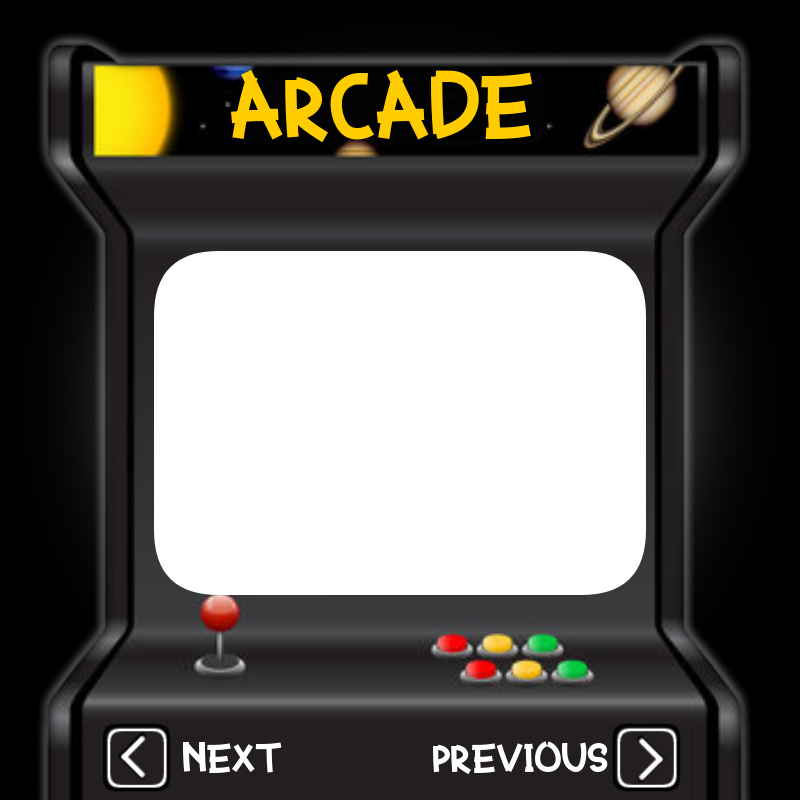
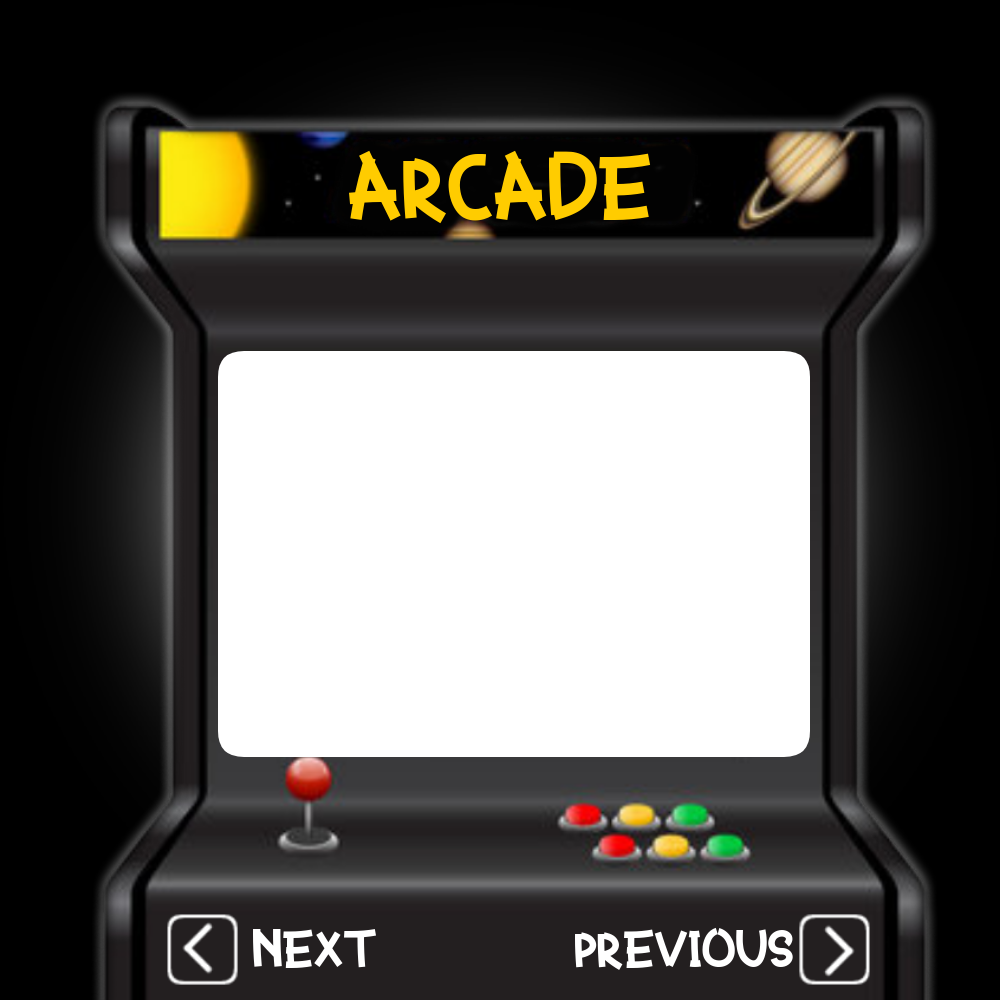
[*] added back getName and new arcade img

Changed region(s): [[0.0312, 0.0312, 0.9375, 1.0]]

diff --git a/lib/Game/Menu/src/Menu.cpp b/lib/Game/Menu/src/Menu.cpp
@@ -15,10 +15,10 @@ extern "C" Arcade::menu *Arcade::entry_point()
 Arcade::menu::menu() : Score(0), CurrentGame(0)
 {
     GetGameLibraries();
-    Images.push_back(std::make_shared<Tile>("contents/Arcade.png", 'X', BLUE, 0, 0));
+    Images.push_back(std::make_shared<Tile>("contents/Arcade.png", ' ', BLUE, 0, 0));
     GameTile = std::make_shared<Text>(Games[CurrentGame], WHITE, 0, 1);
-    //GamePic = std::make_shared<Tile>("")
-    texts.push_back(std::make_shared<Text>("Hello", WHITE, 5, 5));
+    GamePic = std::make_shared<Tile>("contents/arcade_pacman.png", ' ', BLUE,5,14);
+    texts.push_back(std::make_shared<Text>("Hello", WHITE, 0, 0));
 }
 
 std::vector<Arcade::Object> Arcade::menu::GameLoop(Input input)
@@ -31,6 +31,7 @@ std::vector<Arcade::Object> Arcade::menu::GameLoop(Input input)
     if (input == ARROW_LEFT || input == ARROW_RIGHT) {
         GameTile.get()->setText(Games[CurrentGame]);
     }
+    objects.push_back(GamePic);
     for (auto &Image : Images)
         objects.push_back(Image);
     for (auto &Text : texts)
@@ -43,6 +44,7 @@ void Arcade::menu::ResetGame()
 {
     Score = 0;
     CurrentGame = 0;
+    GameTile.get()->setText(Games[CurrentGame]);
 }
 
 void Arcade::menu::GetGameLibraries() {

diff --git a/src/ArcadeParse.cpp b/src/ArcadeParse.cpp
@@ -12,7 +12,7 @@ Arcade::ArcadeParse::ArcadeParse(int NbArguments, char **Arguments) : CurrentGam
     CheckArgument(NbArguments, Arguments);
     GetLibraries();
     CheckLibraries();
-    CurrentGraphic = (int)std::distance(Graphics.begin(), std::find(Graphics.begin(), Graphics.end(), Arguments[1])) % (int)Graphics.size();
+    CurrentGraphic = int (std::distance(Graphics.begin(), std::find(Graphics.begin(), Graphics.end(), Arguments[1]))) % int (Graphics.size());
 }
 
 

diff --git a/src/ArcadeBorne.cpp b/src/ArcadeBorne.cpp
@@ -12,6 +12,7 @@ using namespace std::chrono_literals;
 Arcade::ArcadeBorne::ArcadeBorne(int NbArguments, char **Arguments) : ArcadeParse(NbArguments, Arguments)
 {
     DisplayLibs();
+    GetPlayerName();
     libraries.LoadGame("./lib/arcade_Menu.so");
     LoadGraphicLib();
     while (true) {
